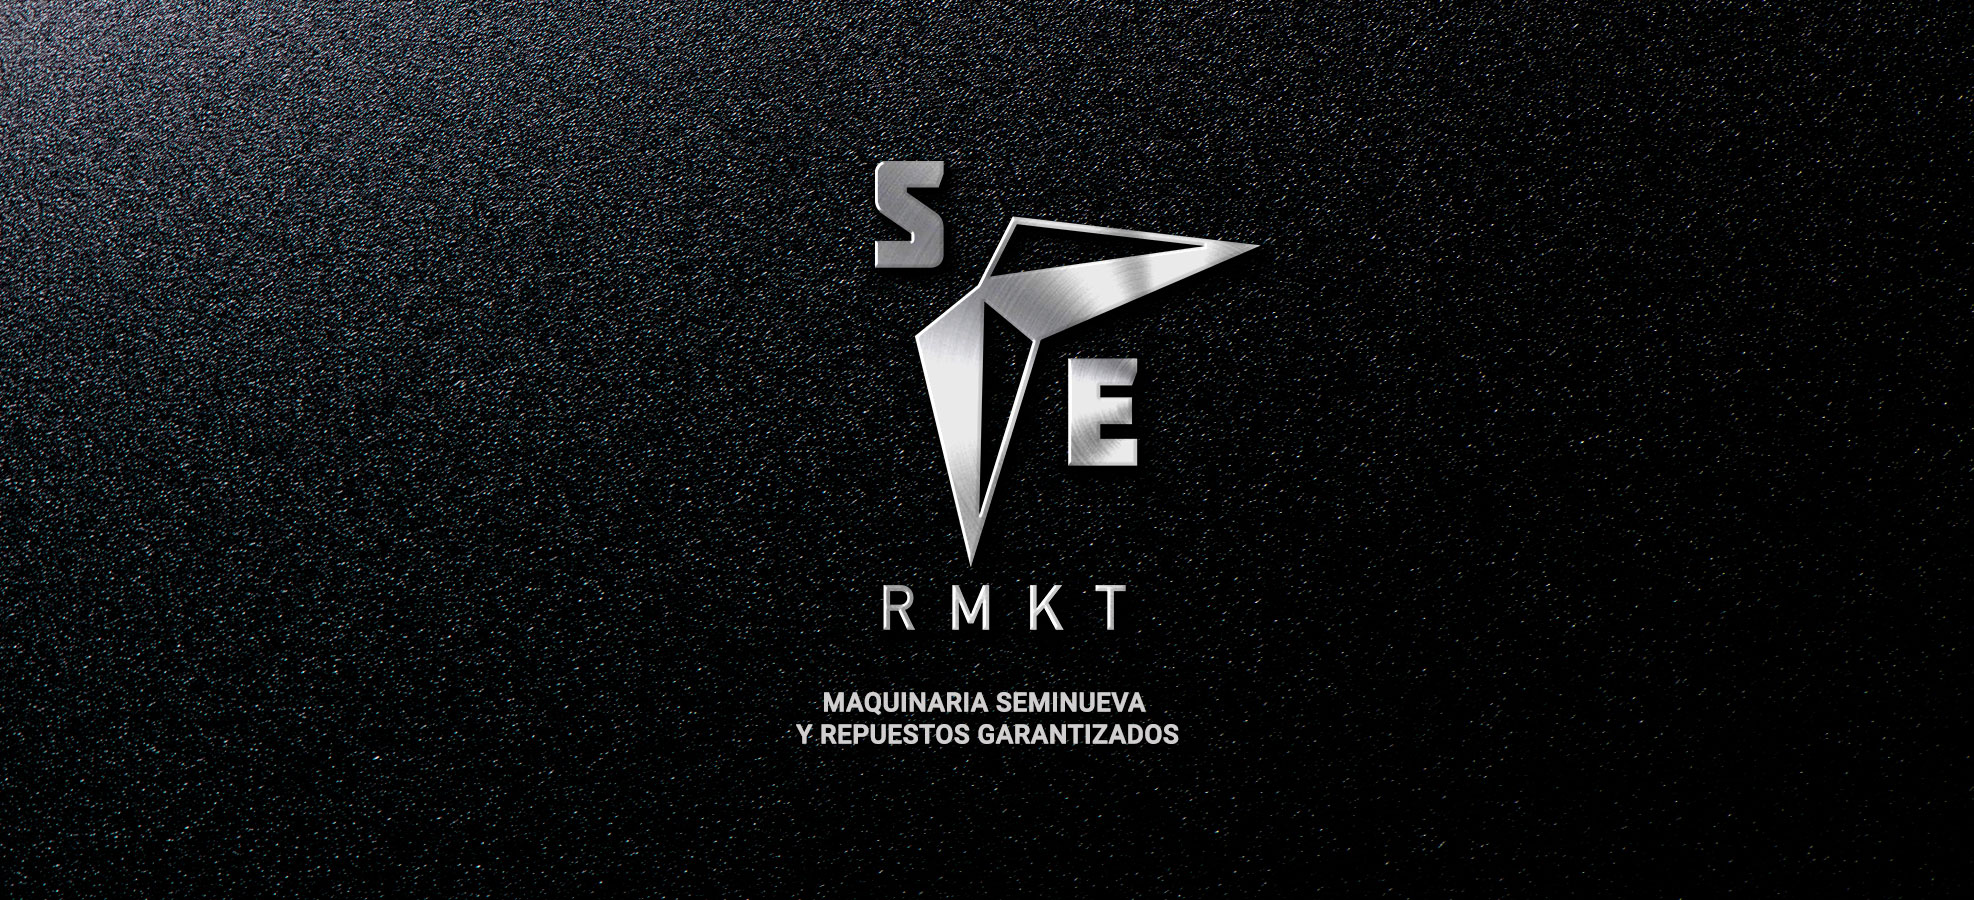
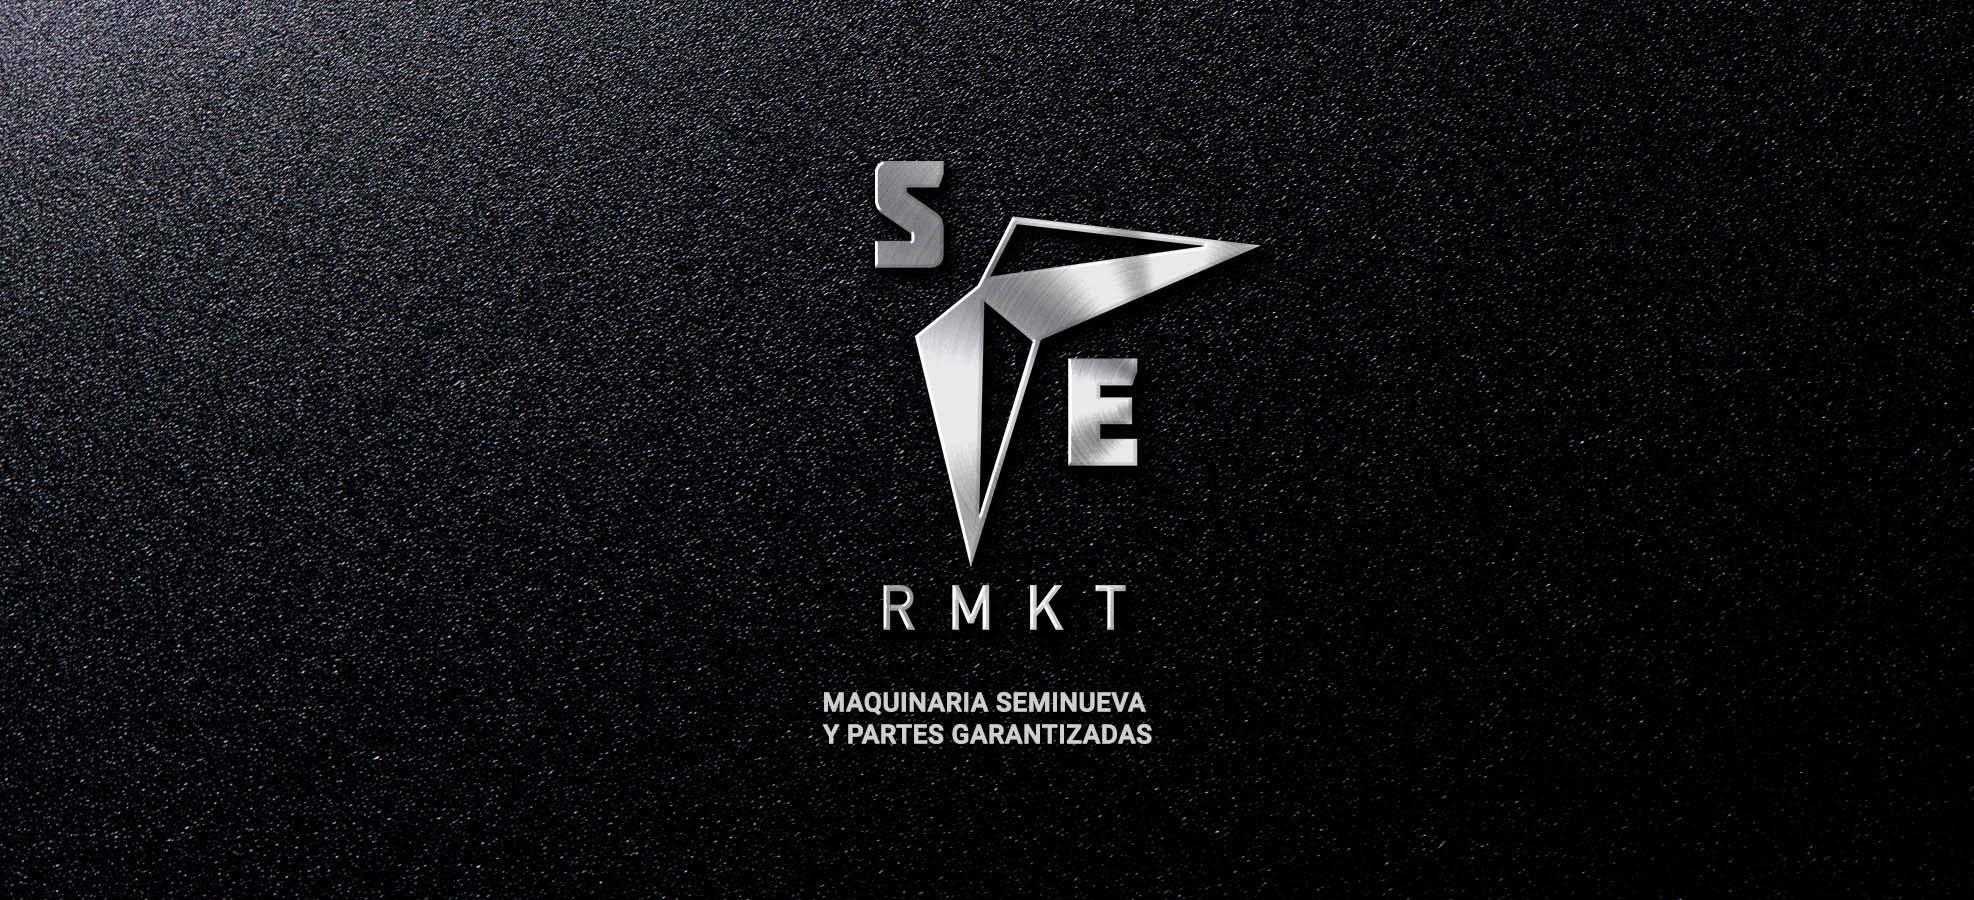
x

diff --git a/index_esp.html b/index_esp.html
@@ -27,7 +27,7 @@
 				<li><a href="#intro">Ho<span class="extra">me</span></a></li>
 						<li><a href="#one">Quiénes<span class="extra"> Somos</span></a></li>
 						<li><a href="#two">Eq<span class="extra">uipos</span></a></li>
-						<li><a href="#three">Rep<span class="extra">uestos</span></a></li>
+						<li><a href="#three">Par<span class="extra">tes</span></a></li>
 						<li><a href="#contact">Contac<span class="extra">to</span></a></li>
 	&nbsp&nbsp<a href="index.html"><img src="images/eng.ico" alt="" width="30" /></a>
 					
@@ -60,8 +60,8 @@
 								
 									<div class="inner">
 									<h2>South East Remarketing</h2>
-									En SERMKT, gestionamos la compra y venta de maquinaria y repuestos originales, con proveedores<br>certificados en Estados Unidos.<br>
-									Nuestra larga trayectoria y conocimiento en el tema, <br>nos permite entregarte respaldo y seguridad, ya que <br>trabajamos con las mejores marcas y con<br> un equipo técnico que garantiza el óptimo<br>funcionamiento de cada máquina o<br>repuesto que comercializamos.	
+									En SERMKT, gestionamos la compra y venta de maquinaria y partes originales, con proveedores<br>certificados en Estados Unidos.<br>
+									Nuestra larga trayectoria y conocimiento en el tema, <br>nos permite entregar respaldo y seguridad, ya que <br>trabajamos con las mejores marcas y con<br>un equipo técnico que garantiza el óptimo<br>funcionamiento de cada máquina o<br>parte que comercializamos.	
 							<br><br><br><br><br><br><br><br>
 								</div>
 							
@@ -94,8 +94,8 @@
 							<article id="three" class="slide style2 center">
 								<img src="images/pic04.jpg" alt="" data-position="left" />
 								<div class="inner">
-									<h2>Repuestos</h2>
-									<p>Amplia gama de repuestos originales para las mejores marcas</p>
+									<h2>Partes y Accesorios</h2>
+									<p>Amplia gama de partes originales para las mejores marcas</p>
 									<link href="index2.html" rel="import" />
 
 								<div class="box alt">

diff --git a/index.html b/index.html
@@ -26,7 +26,7 @@
 				 	<ul>	
 				<li><a href="#intro">Ho<span class="extra">me</span></a></li>
 						<li><a href="#one">About<span class="extra"> Us</span></a></li>
-						<li><a href="#two">Equi<span class="extra">pment</span></a></li>
+						<li><a href="#two">Equi<span class="extra">pments</span></a></li>
 						<li><a href="#three">Par<span class="extra">ts</span></a></li>
 						<li><a href="#contact">Contac<span class="extra">t</span></a></li>
 						&nbsp&nbsp<a href="index_esp.html"><img src="images/esp.png" alt="" width="30" /></a>
@@ -60,7 +60,7 @@
 								
 									<div class="inner">
 									<h2>South East Remarketing</h2>
-									At SERMKT, we manage the purchase and sales of equipment<br>and parts from certified suppliers in the United States.<br>
+									At SERMKT, we manage the purchase and sales of equipments<br>and parts from certified suppliers in the United States.<br>
 									Our long trajectory and vast knowledge on the subject,<br>allows us to provide support and security, since<br>we work with a technical team that guarantees the<br>optimal functioning of each equipment or<br>spare parts we commercialize.	
 							<br><br><br><br><br><br><br><br>
 								</div>
@@ -94,7 +94,7 @@
 							<article id="three" class="slide style2 center">
 								<img src="images/pic04.jpg" alt="" data-position="left" />
 								<div class="inner">
-									<h2>Parts</h2>
+									<h2>Parts and Accessories</h2>
 									<p>We carry a wide range of original spares for the best brands.</p>
 									<link href="index2.html" rel="import" />
 
